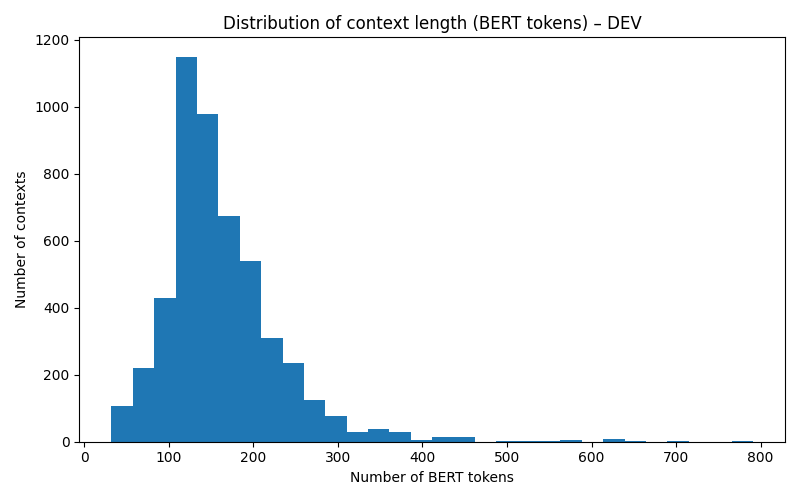
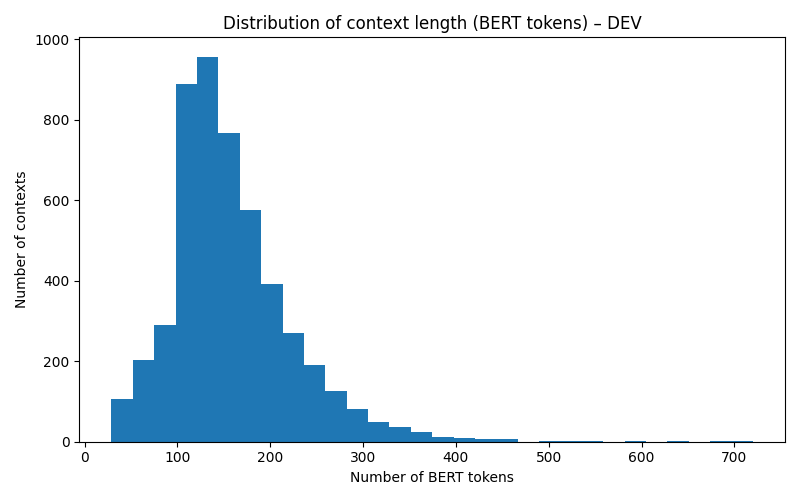
Move analysis folder and update outputs

diff --git a/Projet/Src/analyze_qc_lengths.py b/Projet/Src/analyze_qc_lengths.py
@@ -19,7 +19,7 @@ def main():
     for _ in range(4):  # dev_squad_hf → Traitée → Données → Projet
         BASE_DIR = BASE_DIR.parent
 
-    OUT_DIR = BASE_DIR / "analysis"
+    OUT_DIR = BASE_DIR / "Projet" / "analysis"
     OUT_DIR.mkdir(parents=True, exist_ok=True)
     OUT_FILE = OUT_DIR / "qc_token_length_stats.txt"
 

diff --git a/Projet/Src/analyze_context_lengths.py b/Projet/Src/analyze_context_lengths.py
@@ -9,7 +9,7 @@ from pathlib import Path
 # =========================
 BASE_DIR = Path("/content/bert-squad-project")
 DATA_DIR = BASE_DIR / "Projet" / "Data" / "processed" / "dev_squad_hf"
-OUT_DIR  = BASE_DIR / "analysis"
+OUT_DIR  = BASE_DIR / "Projet" / "analysis"
 
 OUT_DIR.mkdir(parents=True, exist_ok=True)
 
